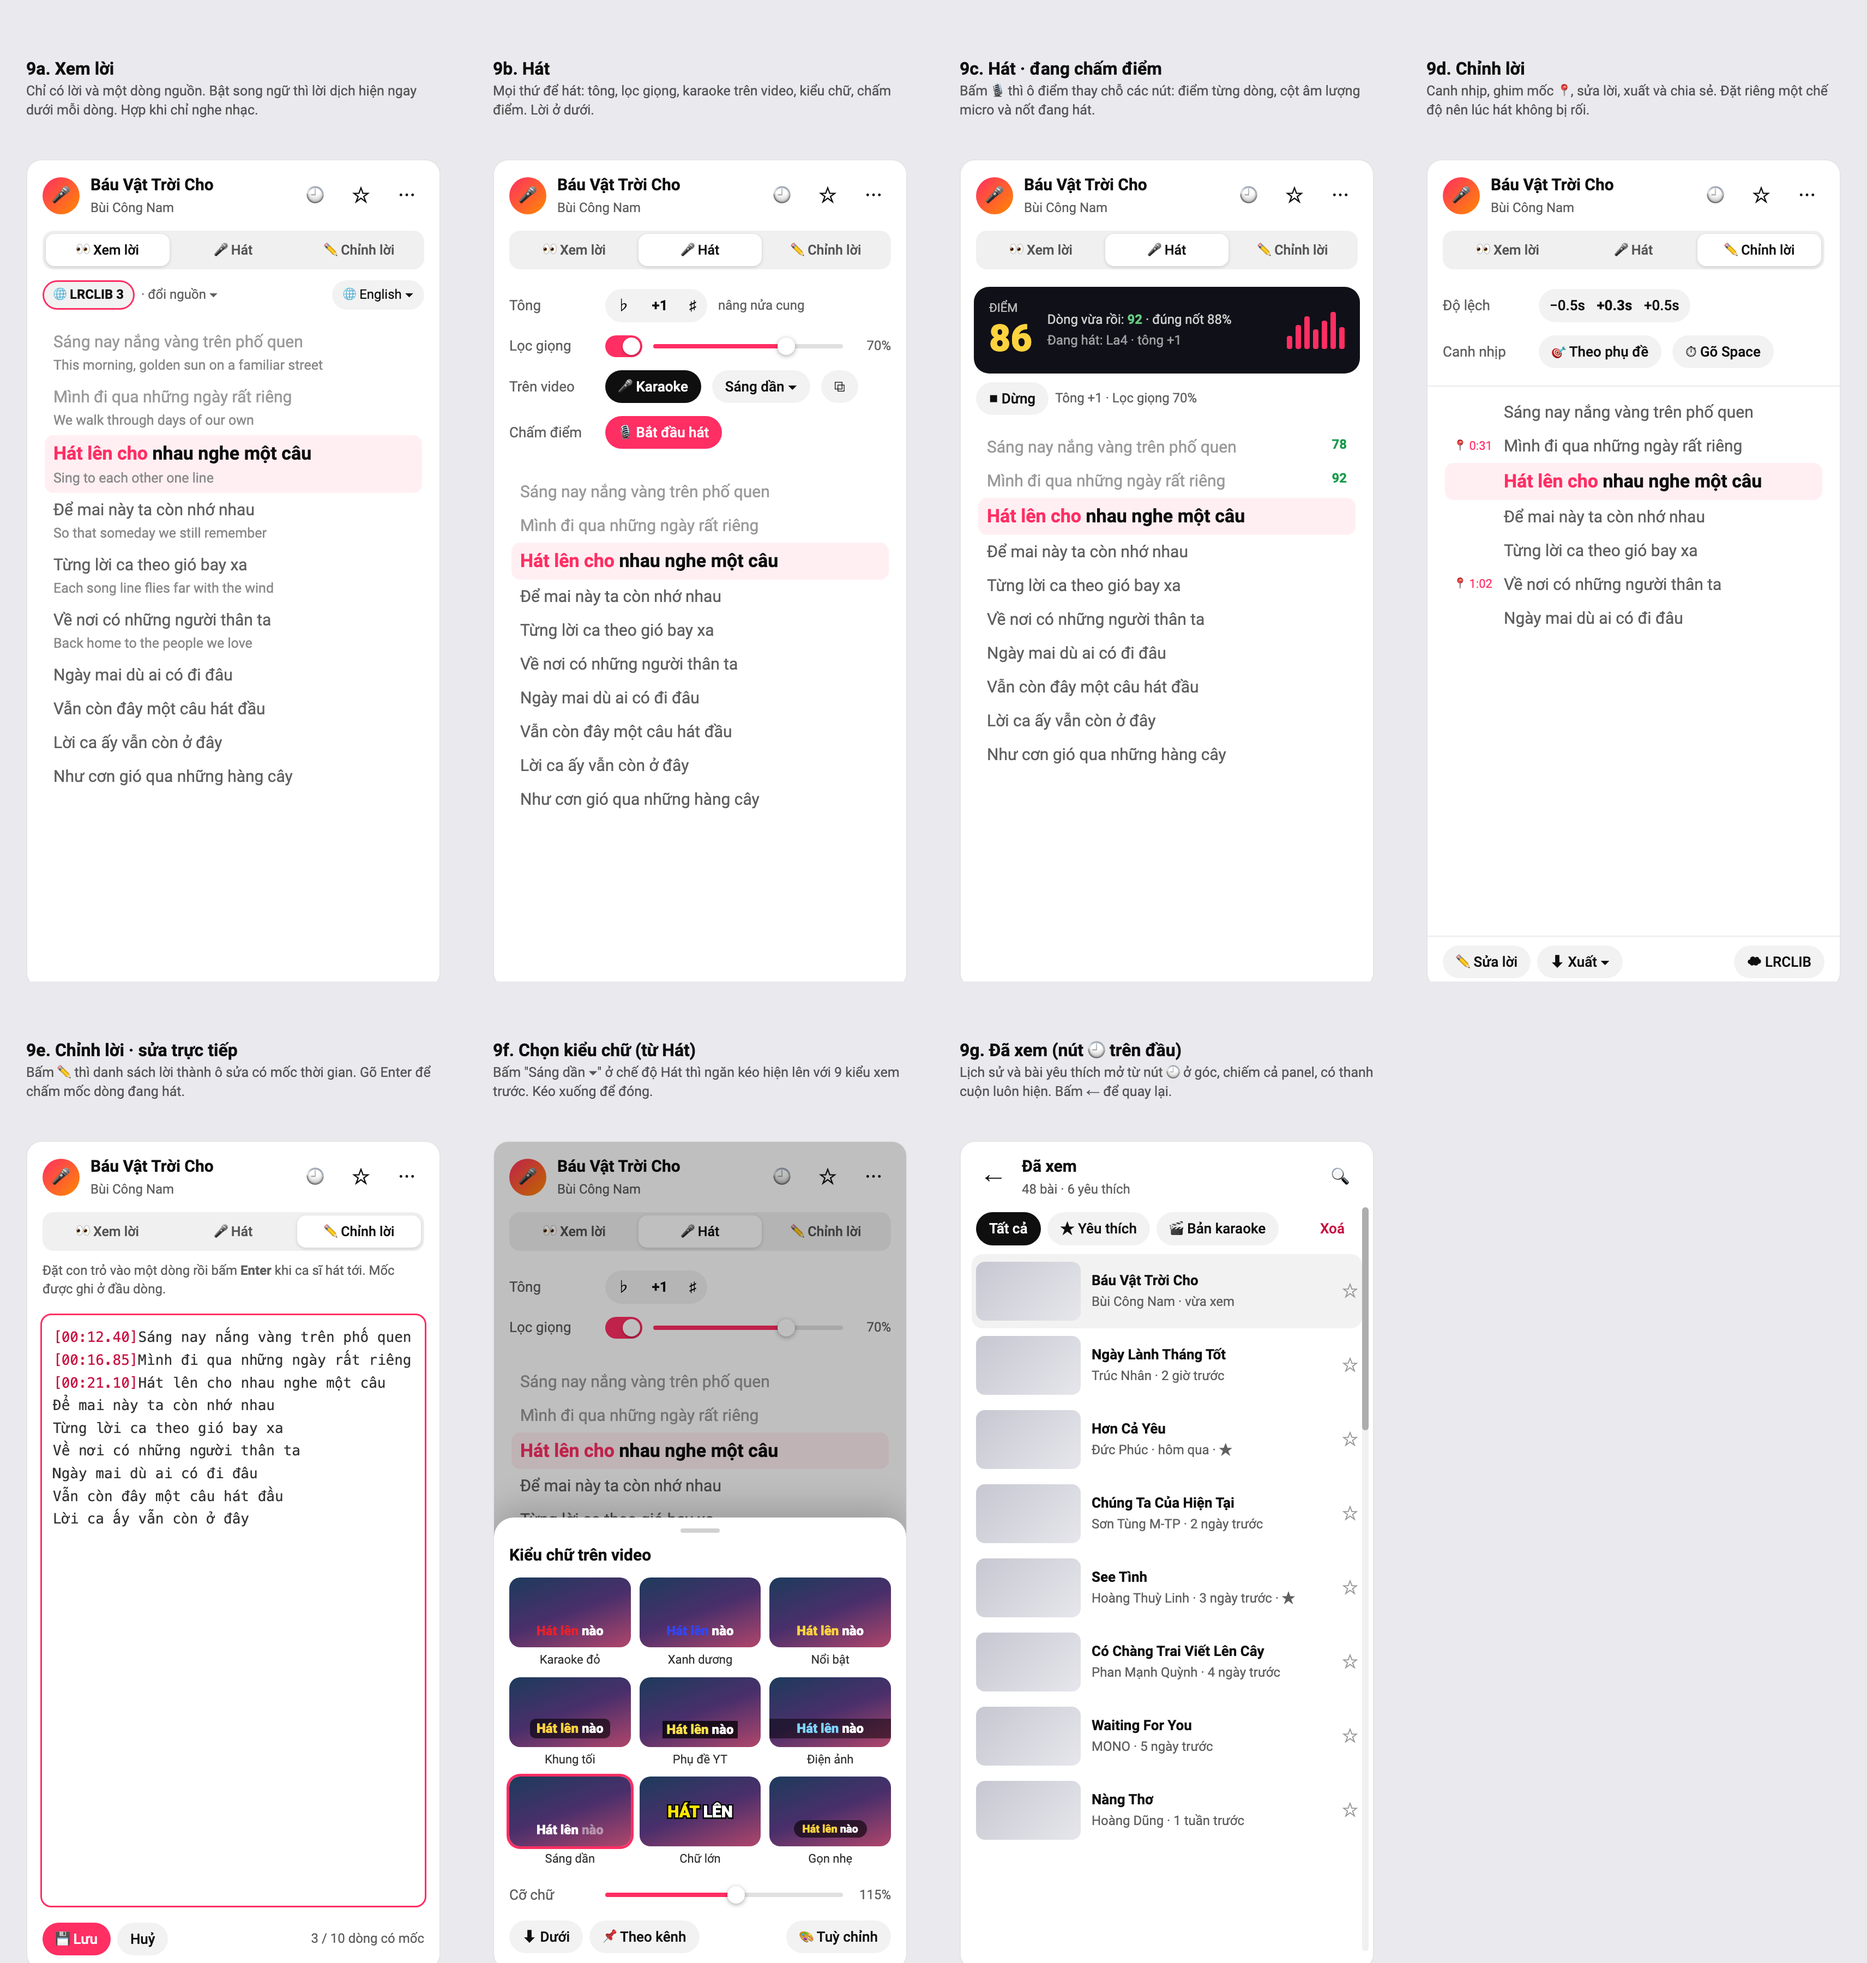
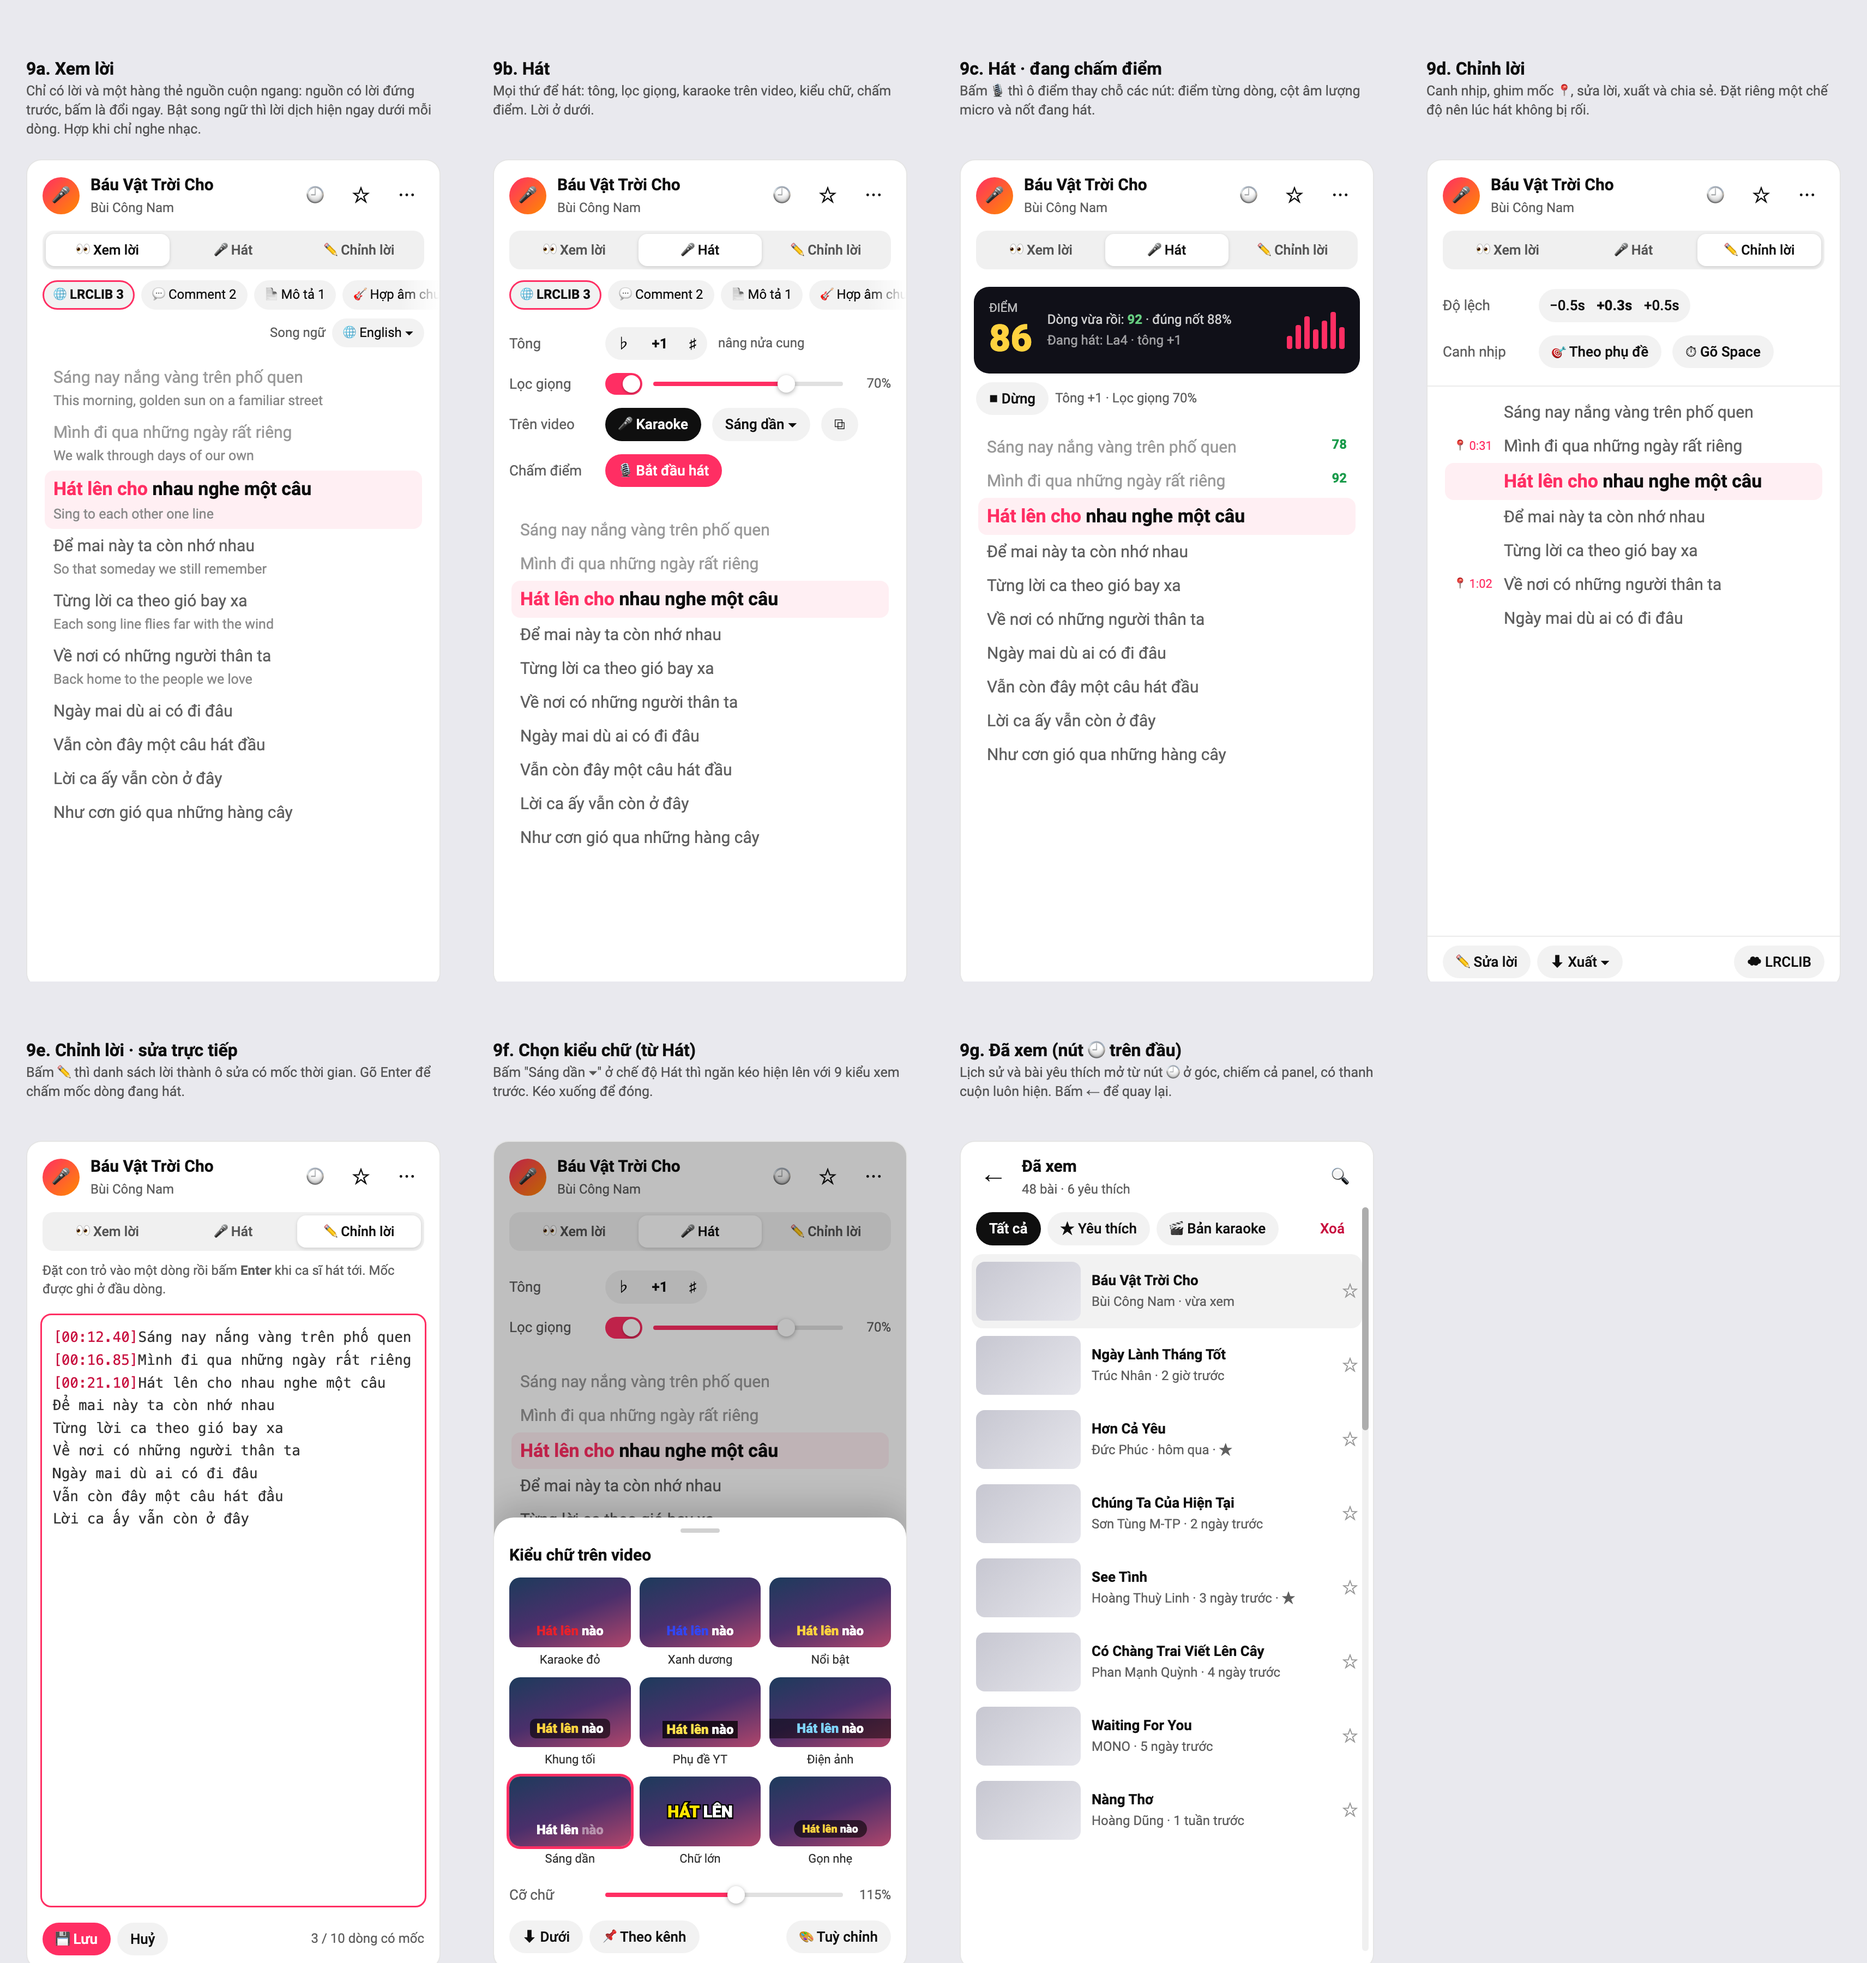
0.21.1: vocal slider stays on the key row and is styled like the others; mockups: switch knob fixed, sources on one scrolling line

diff --git a/design/panel-ui-3-9.html b/design/panel-ui-3-9.html
@@ -46,6 +46,14 @@
   .sw::after { content: ''; position: absolute; top: 2px; left: 2px; width: 16px; height: 16px; border-radius: 50%; background: #fff; box-shadow: 0 1px 2px rgba(0,0,0,.3); }
   .sw.on { background: #ff2e63; }
   .sw.on::after { left: 16px; }
+  .sw.sm { width: 28px; height: 16px; border-radius: 8px; }
+  .sw.sm::after { width: 12px; height: 12px; }
+  .sw.sm.on::after { left: 14px; }
+  .sw.sm.light { background: rgba(255,255,255,.35); }
+  /* Sources on one line that scrolls sideways: the found ones first. */
+  .srcs { display: flex; gap: 6px; overflow: hidden; padding: 0 14px 8px; position: relative; white-space: nowrap; }
+  .srcs::after { content: ''; position: absolute; right: 0; top: 0; bottom: 8px; width: 36px; background: linear-gradient(90deg, transparent, #fff); }
+  .srcs .chip { flex: none; }
   .range { flex: 1; height: 4px; border-radius: 2px; background: linear-gradient(90deg, #ff2e63 var(--v, 60%), rgba(0,0,0,.12) var(--v, 60%)); position: relative; }
   .range::after { content: ''; position: absolute; top: -6px; left: calc(var(--v, 60%) - 8px); width: 16px; height: 16px; border-radius: 50%; background: #fff; box-shadow: 0 1px 4px rgba(0,0,0,.35); }
   .kv { display: flex; align-items: center; gap: 10px; padding: 6px 0; font-size: 13px; }
@@ -107,6 +115,8 @@
   const lyrics = (cur = 2, from = 0, trans = false) => `<div class="lyr">${LYR.slice(from).map((l, i) => `<div class="${i + from < cur ? 'done' : i + from === cur ? 'cur' : ''}">${l}${trans && TR[i + from] ? `<div style="padding:2px 0 0;font-size:12.5px;font-weight:400;color:#8a8a8a">${TR[i + from]}</div>` : ''}</div>`).join('')}</div>`;
   const head = (extra = '') => `<div class="hd"><div class="logo">🎤</div><div class="ti"><b>Báu Vật Trời Cho</b><span class="muted">Bùi Công Nam</span></div>${extra}<button class="icon">☆</button><button class="icon">⋯</button></div>`;
   const sources = (sel = 'LRCLIB') => `<div class="row">${[['📄', 'Mô tả', 1], ['💬', 'Comment', 2], ['🔁', 'Bản khác', 0], ['🌐', 'LRCLIB', 3], ['🎸', 'Hợp âm chuẩn', 1], ['🎵', 'Genius', 1], ['📝', 'Phụ đề', 0]].map(([i, n, c]) => `<span class="chip ${n === sel ? 'sel' : c ? '' : 'dim'}">${i} ${n}${c ? ' ' + c : ''}</span>`).join('')}</div>`;
+  // One line of sources: found ones first (the chosen one outlined), the empty ones last and faded.
+  const srcRow = () => `<div class="srcs">${[['🌐', 'LRCLIB', 3, 1], ['💬', 'Comment', 2], ['📄', 'Mô tả', 1], ['🎸', 'Hợp âm chuẩn', 1], ['🎵', 'Genius', 1], ['🔁', 'Bản khác', 0], ['📝', 'Phụ đề', 0]].map(([i, n, c, sel]) => `<span class="chip ${sel ? 'sel' : c ? '' : 'dim'}">${i} ${n}${c ? ' ' + c : ''}</span>`).join('')}</div>`;
   const key = (v = '0') => `<span class="step"><button>♭</button><b>${v}</b><button>♯</button></span>`;
   const sw = (on) => `<span class="sw ${on ? 'on' : ''}"></span>`;
   const range = (v, label) => `<div class="range" style="--v:${v}%"></div><span class="muted" style="width:34px;text-align:right">${label}</span>`;
@@ -159,10 +169,10 @@
   ];
 
   const V9 = [
-    ['9a. Xem lời', 'Chỉ có lời và một dòng nguồn. Bật song ngữ thì lời dịch hiện ngay dưới mỗi dòng. Hợp khi chỉ nghe nhạc.', () => `${head('<button class="icon">🕘</button>')}${modes(0)}
-      <div class="row" style="padding:0 14px 6px"><span class="chip sel">🌐 LRCLIB 3</span><span class="muted">· đổi nguồn ▾</span><span style="flex:1"></span><span class="chip">🌐 English ▾</span></div>
+    ['9a. Xem lời', 'Chỉ có lời và một hàng thẻ nguồn cuộn ngang: nguồn có lời đứng trước, bấm là đổi ngay. Bật song ngữ thì lời dịch hiện ngay dưới mỗi dòng. Hợp khi chỉ nghe nhạc.', () => `${head('<button class="icon">🕘</button>')}${modes(0)}
+      ${srcRow()}<div class="row" style="padding:0 14px 4px;justify-content:flex-end"><span class="muted">Song ngữ</span><span class="chip">🌐 English ▾</span></div>
       ${lyrics(2, 0, true)}`],
-    ['9b. Hát', 'Mọi thứ để hát: tông, lọc giọng, karaoke trên video, kiểu chữ, chấm điểm. Lời ở dưới.', () => `${head('<button class="icon">🕘</button>')}${modes(1)}
+    ['9b. Hát', 'Mọi thứ để hát: tông, lọc giọng, karaoke trên video, kiểu chữ, chấm điểm. Lời ở dưới.', () => `${head('<button class="icon">🕘</button>')}${modes(1)}${srcRow()}
       <div class="sec" style="border-top:0;padding-top:2px">
         ${kv('Tông', key('+1'), '<span class="muted">nâng nửa cung</span>')}
         ${kv('Lọc giọng', sw(1), range(70, '70%'))}
@@ -193,15 +203,15 @@
 
 
   // The 🎤 Karaoke switch kept outside the modes, always one click away.
-  const kbtn = (on) => `<span style="display:inline-flex;align-items:center;gap:6px;padding:5px 8px 5px 10px;border-radius:999px;font-size:12.5px;font-weight:700;${on ? 'background:#ff2e63;color:#fff' : 'background:rgba(0,0,0,.06);color:#333'}">🎤 Karaoke <span class="sw ${on ? 'on' : ''}" style="width:28px;height:16px;${on ? 'background:rgba(255,255,255,.35)' : ''}"></span></span>`;
+  const kbtn = (on) => `<span style="display:inline-flex;align-items:center;gap:6px;padding:5px 8px 5px 10px;border-radius:999px;font-size:12.5px;font-weight:700;${on ? 'background:#ff2e63;color:#fff' : 'background:rgba(0,0,0,.06);color:#333'}">🎤 Karaoke <span class="sw sm ${on ? 'on light' : ''}"></span></span>`;
   const headK = (on) => `<div class="hd"><div class="logo">🎤</div><div class="ti"><b>Báu Vật Trời Cho</b><span class="muted">Bùi Công Nam</span></div>${kbtn(on)}<button class="icon">⋯</button></div>`;
   const VK = [
     ['A1. Công tắc trên đầu panel (bật)', 'Nút 🎤 Karaoke có công tắc nằm cạnh tên bài, chế độ nào cũng thấy. Bật thì nút đỏ, tắt thì nút xám. ☆ và 🕘 chuyển vào menu ⋯.', () => `${headK(1)}${modes(0)}
-      <div class="row" style="padding:0 14px 6px"><span class="chip sel">🌐 LRCLIB 3</span><span class="muted">· đổi nguồn ▾</span></div>${lyrics()}`],
-    ['A2. Công tắc trên đầu panel (tắt)', 'Đang ở chế độ Hát và đang tắt karaoke. Dòng "Trên video" chỉ còn chỗ chọn kiểu chữ, vì nút bật tắt đã nằm trên đầu.', () => `${headK(0)}${modes(1)}
+      ${srcRow()}${lyrics()}`],
+    ['A2. Công tắc trên đầu panel (tắt)', 'Đang ở chế độ Hát và đang tắt karaoke. Dòng "Trên video" chỉ còn chỗ chọn kiểu chữ, vì nút bật tắt đã nằm trên đầu.', () => `${headK(0)}${modes(1)}${srcRow()}
       <div class="sec" style="border-top:0;padding-top:2px">${kv('Tông', key('+1'))}${kv('Lọc giọng', sw(1), range(70, '70%'))}${kv('Kiểu chữ', '<button>Sáng dần ▾</button>', '<button>A−</button>', '<button>A+</button>')}${kv('Chấm điểm', '<button class="pri">🎙 Bắt đầu hát</button>')}</div>${lyrics()}`],
     ['B. Thanh điều khiển cố định ở đáy', 'Một thanh nhỏ luôn nằm ở đáy panel: bật tắt karaoke, đổi kiểu chữ, cỡ chữ, đưa lời lên trên hay xuống dưới. Lời cuộn phía trên thanh.', () => `${head('<button class="icon">🕘</button>')}${modes(0)}
-      <div class="row" style="padding:0 14px 6px"><span class="chip sel">🌐 LRCLIB 3</span><span class="muted">· đổi nguồn ▾</span></div>${lyrics()}
+      ${srcRow()}${lyrics()}
       <div style="display:flex;align-items:center;gap:6px;padding:10px 12px;border-top:1px solid rgba(0,0,0,.08);background:#fafafa">${kbtn(1)}<button style="font-size:12px">Sáng dần ▾</button><button class="icon" style="width:28px">A−</button><button class="icon" style="width:28px">A+</button><button class="icon" style="width:28px">⬇</button></div>`],
     ['C. Nút ngay trên thanh điều khiển của YouTube', 'Thêm biểu tượng 🎤 cạnh nút phụ đề CC của trình phát. Bật tắt được cả khi xem toàn màn hình hay đã ẩn panel. Phím tắt Alt L vẫn dùng được.', () => `<div style="padding:14px"><div style="position:relative;height:214px;border-radius:12px;overflow:hidden;background:linear-gradient(160deg,#1d3b5c,#4a2f6b 50%,#b0466b)">
         <div style="position:absolute;left:0;right:0;bottom:92px;text-align:center;font:800 17px Roboto;color:#fff;text-shadow:0 2px 4px #000"><span style="color:#ffd23f">Hát lên cho</span> nhau nghe một câu</div>

diff --git a/src/content/panel-css.js b/src/content/panel-css.js
@@ -124,7 +124,14 @@ BYL.PANEL_CSS = `
   button.fav.on, .kitem button.fav.on { color: #f5b301; background: transparent; }
   /* 🌐: a see-through select over the label, so the list shows each
      language under its own name. */
-  .fx input[type=range] { width: 90px; accent-color: var(--accent, #e8212b); }
+  /* Key and vocal cut on one line: the slider takes what is left. */
+  .row.fx { flex-wrap: nowrap; }
+  .fx > * { flex: none; white-space: nowrap; }
+  .fx input[type=range] { -webkit-appearance: none; appearance: none; flex: 1; min-width: 40px; height: 4px; margin: 0 4px; border-radius: 2px; cursor: pointer;
+    background: linear-gradient(90deg, var(--accent, #e8212b) var(--fill, 100%), var(--line) var(--fill, 100%)); }
+  .fx input[type=range]::-webkit-slider-thumb { -webkit-appearance: none; width: 14px; height: 14px; border-radius: 50%; background: #fff;
+    box-shadow: 0 1px 3px rgba(0,0,0,.4); }
+  .fx input[type=range]::-moz-range-thumb { width: 14px; height: 14px; border: 0; border-radius: 50%; background: #fff; box-shadow: 0 1px 3px rgba(0,0,0,.4); }
   .fx .off.on { color: var(--accent, #e8212b); font-weight: 700; }
   .lang { position: relative; font-size: 12px; color: var(--fg2); padding: 4px 6px; border-radius: 8px; white-space: nowrap; }
   .lang:hover { background: var(--chip); }

diff --git a/src/content/ui.js b/src/content/ui.js
@@ -1211,6 +1211,7 @@ BYL.ui = (() => {
     P.keyLabel.classList.toggle('on', !!BYL.fx.semis);
     P.vocalBtn.classList.toggle('on', BYL.fx.vocal > 0);
     P.vocalAmt.hidden = !(BYL.fx.vocal > 0);
+    P.vocalAmt.style.setProperty('--fill', ((P.vocalAmt.value - P.vocalAmt.min) / (P.vocalAmt.max - P.vocalAmt.min)) * 100 + '%');
   }
   // The key is kept per video; byUser: from a button or shortcut (a click,
   // so the sound can start), otherwise the saved key on opening a video.
